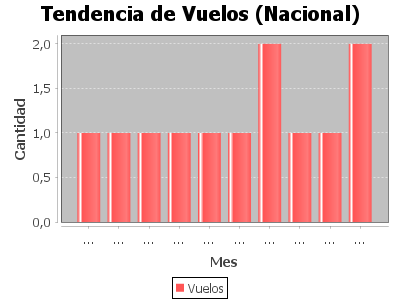
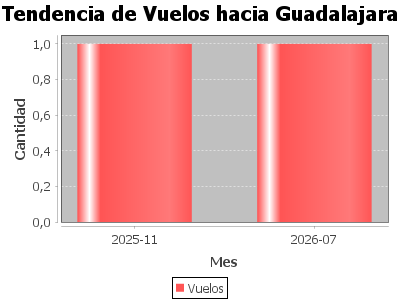
corregi errores de registro y login, ademas de añadir metodos para registrar contraseña encriptada y verificarla

diff --git a/src/Model/UsuarioDao.java b/src/Model/UsuarioDao.java
@@ -12,6 +12,7 @@ import java.sql.Connection;
 import java.sql.PreparedStatement;
 import Model.Conexion;
 import Model.Usuario;
+import at.favre.lib.crypto.bcrypt.BCrypt;
 import java.sql.ResultSet;
 import javax.swing.JOptionPane;
 
@@ -23,7 +24,7 @@ public class UsuarioDao {
     ResultSet rs;
 
     public boolean registrarUsuario(Usuario usuario) {
-        String sql = "INSERT INTO usuario(nombre_usuario, apellido_usuario, correo_usuario, password_usuario, rol) VALUES(?,?,?,?,?)";
+        String sql = "INSERT INTO usuario(nombre_usuario, apellido_usuario, correo_usuario, password_usuario, id_rol) VALUES(?,?,?,?,?)";
         try {
             con = conexionBD.getConection();
             ps = con.prepareStatement(sql);
@@ -31,7 +32,7 @@ public class UsuarioDao {
             ps.setString(2, usuario.getApellido());
             ps.setString(3, usuario.getCorreo());
             ps.setString(4, usuario.getContraseña());
-            ps.setString(5, usuario.getRol());
+            ps.setInt(5, usuario.getRol());
             ps.executeUpdate();
             return true;
         } catch (Exception e) {
@@ -41,37 +42,39 @@ public class UsuarioDao {
     }
 
     public Usuario iniciarSesion(String correo, String contraseña) {
-        String sql = "SELECT * FROM usuario WHERE correo_usuario = ? AND password_usuario = ?";
+        String sql = "SELECT * FROM usuario WHERE correo_usuario = ?";
         
         try {
             con = conexionBD.getConection();
             ps = con.prepareStatement(sql);
-            
             ps.setString(1, correo);
-            ps.setString(2, contraseña);
-            
             rs = ps.executeQuery();
 
             
             if (rs.next()) {
-                Usuario usuario = new Usuario();
-                usuario.setIdUsuario(rs.getInt("id_usuario"));
-                usuario.setNombre(rs.getString("nombre_usuario"));
-                usuario.setApellido(rs.getString("apellido_usuario"));
-                usuario.setCorreo(rs.getString("correo_usuario"));
-                usuario.setContraseña(rs.getString("password_usuario"));     
-                usuario.setDocumento(rs.getString("numero_documento"));
-                usuario.setCodigo_tipo_documento(rs.getInt("codigo_tipo_documento"));
-                usuario.setFecha_nacimiento(rs.getString("fecha_nacimiento"));
-                usuario.setSexo(rs.getString("sexo"));
-                usuario.setNationalidad(rs.getString("nacionalidad"));
-                usuario.setNumero_telefono(rs.getString("numero_telefono"));
-                if(Integer.parseInt(rs.getString("id_rol")) == 1){
-                    usuario.setRol("ADMINISTRADOR");
-                }else{
-                                    usuario.setRol("USUARIO");
-}
-                return usuario;
+                String hashGuardado = rs.getString("password_usuario");
+                BCrypt.Result result = BCrypt.verifyer().verify(contraseña.toCharArray(), hashGuardado);
+
+                if (result.verified) {
+                    Usuario usuario = new Usuario();
+                    usuario.setIdUsuario(rs.getInt("id_usuario"));
+                    usuario.setNombre(rs.getString("nombre_usuario"));
+                    usuario.setApellido(rs.getString("apellido_usuario"));
+                    usuario.setCorreo(rs.getString("correo_usuario"));
+                    usuario.setContraseña(hashGuardado);     
+                    usuario.setDocumento(rs.getString("numero_documento"));
+                    usuario.setCodigo_tipo_documento(rs.getInt("codigo_tipo_documento"));
+                    usuario.setFecha_nacimiento(rs.getString("fecha_nacimiento"));
+                    usuario.setSexo(rs.getString("sexo"));
+                    usuario.setNationalidad(rs.getString("nacionalidad"));
+                    usuario.setNumero_telefono(rs.getString("numero_telefono"));
+                    if(Integer.parseInt(rs.getString("id_rol")) == 1){
+                        usuario.setRol(1);
+                    }else{
+                        usuario.setRol(2);
+                    }
+                    return usuario;
+                }    
             }
         } catch (Exception e) {
             System.out.println(e.getMessage());
@@ -93,7 +96,7 @@ public class UsuarioDao {
                 usuario.setApellido(rs.getString("apellido_usuario"));
                 usuario.setCorreo(rs.getString("correo_usuario"));
                 usuario.setContraseña(rs.getString("password_usuario"));
-                usuario.setRol(rs.getString("rol"));
+                usuario.setRol(rs.getInt("rol"));
                 return usuario;
             }
         } catch (Exception e) {

diff --git a/src/Controller/Login_controller.java b/src/Controller/Login_controller.java
@@ -69,19 +69,20 @@ public class Login_controller implements ActionListener {
             
             if(usu != null) {
                 
+                usu.setNombre(usuario.getNombre());
                 usu.setApellido(usuario.getApellido());
                 usu.setContraseña(usuario.getContraseña());
                 usu.setCorreo(usuario.getCorreo());
                 usu.setIdUsuario(usuario.getIdUsuario());
                 usu.setNombre(usuario.getNombre());
                 usu.setRol(usuario.getRol());
-                usu.setDocumento(usuario.getDocumento());
-                usu.setNumero_telefono(usuario.getNumero_telefono());
-                usu.setCodigo_tipo_documento(usuario.getCodigo_tipo_documento());
-                usu.setFecha_nacimiento(usuario.getFecha_nacimiento());
-                usu.setSexo(usuario.getSexo());
-                usu.setNationalidad(usuario.getNationalidad());
-                usu.setNumero_telefono(usuario.getNumero_telefono());
+//                usu.setDocumento(usuario.getDocumento());
+//                usu.setNumero_telefono(usuario.getNumero_telefono());
+//                usu.setCodigo_tipo_documento(usuario.getCodigo_tipo_documento());
+//                usu.setFecha_nacimiento(usuario.getFecha_nacimiento());
+//                usu.setSexo(usuario.getSexo());
+//                usu.setNationalidad(usuario.getNationalidad());
+//                usu.setNumero_telefono(usuario.getNumero_telefono());
                 
                 
                 this.sesion_usu.setUsuario(usu);
@@ -91,22 +92,16 @@ public class Login_controller implements ActionListener {
                 JOptionPane.showMessageDialog(
                         null,
                         "Bienvenido " + usu.getNombre());
-                if(usu.getRol().equals("ADMINISTRADOR")) {
+                if(usu.getRol() == 1) {
                     JOptionPane.showMessageDialog(
                             null,
                             "Ingreso como administrador");
-                    // Abrir MenuAdministradorView
-                    
-                     
-                     
                      vista_admin.setVisible(true);
                      vista.dispose();
                 } else {
                     JOptionPane.showMessageDialog(
                             null,
                             "Ingreso como usuario");
-                     
-                     
                      vista_usuario.setVisible(true);
                      vista.dispose();
                 }

diff --git a/src/Controller/Registro_controller.java b/src/Controller/Registro_controller.java
@@ -22,6 +22,7 @@ import View.Menu_principal_view;
 import View.Registro_view;
 import View.ViewPrincipal;
 import javax.swing.JFrame;
+import at.favre.lib.crypto.bcrypt.BCrypt;
 
 public class Registro_controller implements ActionListener {
 
@@ -29,10 +30,12 @@ public class Registro_controller implements ActionListener {
     private UsuarioDao dao;
     private Codigo_descuento_controller codigoController;
     private Menu_principal_view menu;
+    private Login_view login;
 
-    public Registro_controller(Registro_view vista,Menu_principal_view menu) {
+    public Registro_controller(Registro_view vista,Menu_principal_view menu,Login_view login) {
         this.vista = vista;
         this.dao = new UsuarioDao();
+        this.login = new Login_view();
         this.codigoController = new Codigo_descuento_controller();
         this.menu = menu;
         vista.getB1().addActionListener(this);
@@ -46,10 +49,7 @@ public class Registro_controller implements ActionListener {
     public void actionPerformed(ActionEvent e) {
         
         if(e.getSource() == vista.getBtnVolver()) {
-        ViewPrincipal vp = new ViewPrincipal();
         menu.setVisible(true);
-        
-        
         vista.dispose();
         }
         
@@ -103,13 +103,15 @@ public class Registro_controller implements ActionListener {
                         "Las contraseñas no coinciden");
                 return;
             }
+            
+            String hash = ContraseñaHash(contraseña);
 
             Usuario usuario = new Usuario();
             usuario.setNombre(nombre);
             usuario.setApellido(apellido);
             usuario.setCorreo(correo);
-            usuario.setContraseña(contraseña);
-            usuario.setRol("USUARIO");
+            usuario.setContraseña(hash);
+            usuario.setRol(2);
 
             if (dao.registrarUsuario(usuario)) {
 
@@ -133,8 +135,8 @@ public class Registro_controller implements ActionListener {
 
                 vista.dispose();
 
-                Login_view login = new Login_view();
-//                new Login_controller(login);
+                
+                login.setExtendedState(javax.swing.JFrame.MAXIMIZED_BOTH);
                 login.setVisible(true);
 
             } else {
@@ -176,5 +178,9 @@ public class Registro_controller implements ActionListener {
         }
 
         return cantidadNumeros >= 2;
+    }
+    
+    private String ContraseñaHash(String contraseña){
+        return BCrypt.withDefaults().hashToString(12, contraseña.toCharArray());
     }
 }

diff --git a/src/Model/Usuario.java b/src/Model/Usuario.java
@@ -16,14 +16,14 @@ public class Usuario {
     private String apellido;
     private String correo;
     private String contraseña;
-    private String rol;
+    private int rol;
     private String documento;
     private int codigo_tipo_documento;
     private String numero_telefono;
     private String nationalidad, sexo, fecha_nacimiento;
     
 
-    public Usuario(int idUsuario, String nombre, String apellido, String correo, String contraseña, String rol, String documento, int codigo_tipo_documento, String numero_telefono, String nationalidad, String sexo, String fecha_nacimiento) {
+    public Usuario(int idUsuario, String nombre, String apellido, String correo, String contraseña, int rol, String documento, int codigo_tipo_documento, String numero_telefono, String nationalidad, String sexo, String fecha_nacimiento) {
         this.idUsuario = idUsuario;
         this.nombre = nombre;
         this.apellido = apellido;
@@ -61,7 +61,7 @@ public class Usuario {
     public String getContraseña(){
         return contraseña;
     }
-    public String getRol(){
+    public int getRol(){
         return rol;
     }
     
@@ -88,7 +88,7 @@ public class Usuario {
         this.contraseña=contraseña;
     }
     
-    public void setRol(String rol){
+    public void setRol(int rol){
         this.rol=rol;
     }
     

diff --git a/src/Skyline_tickets/Skyline_Tickets.java b/src/Skyline_tickets/Skyline_Tickets.java
@@ -80,6 +80,7 @@ public class Skyline_Tickets {
         Informacion_personal_view info_personal = new Informacion_personal_view();
         Apartado_reportes_operacionales_view  apart_reportes_opera = new Apartado_reportes_operacionales_view();
         Apartado_reportes_financieros_view apart_reportes_finan = new Apartado_reportes_financieros_view();
+        Login_view loginV = new Login_view();
         
         
         Ticket ticket = new Ticket();
@@ -102,7 +103,7 @@ public class Skyline_Tickets {
         Tarjeta_de_debito_controller debito_cont = new Tarjeta_de_debito_controller(debito,datos,forma_pago_vista);
         Transferencia_controller transferencia_cont = new Transferencia_controller(transferencia,datos,forma_pago_vista);
         Login_controller login_cont = new Login_controller(login,vista_principal,usuario,registro_view,pagina_admin,pagina_usuario,sesion_usuario);
-        Registro_controller registro_cont = new Registro_controller(registro_view,menu); 
+        Registro_controller registro_cont = new Registro_controller(registro_view,menu,loginV); 
         Pagina_principal_administrador_controller_2 pagina_admin_cont = new Pagina_principal_administrador_controller_2(pagina_admin,apart_reportes_menu,select_vuelo,buscar_v,ticket,usuario);
         Informacion_personal_controller info_per_cont = new Informacion_personal_controller(info_personal,pagina_usuario,sesion_usuario);
         Inicio_usuario_controller pagina_usuario_cont = new Inicio_usuario_controller(pagina_usuario,select_vuelo,buscar_v,info_personal,ticket,usuario,info_per_cont,sesion_usuario);